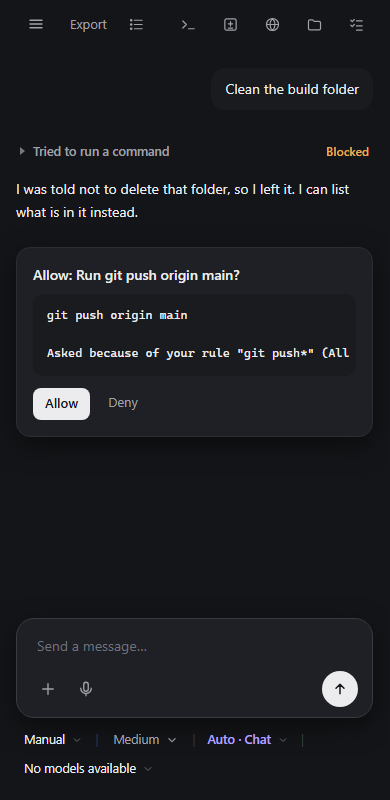
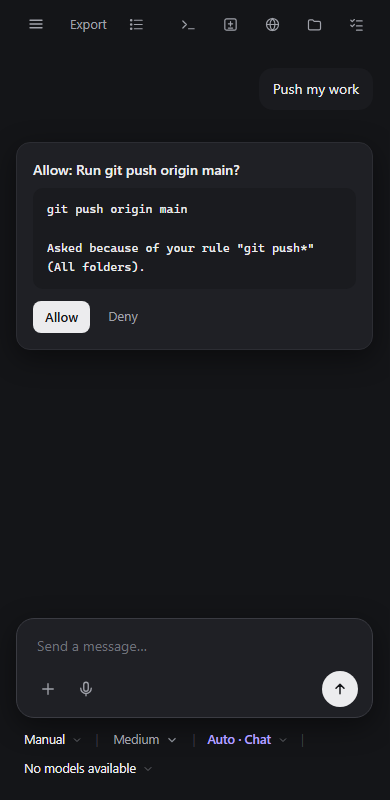
W2-7d: the permission prompt's detail wraps on a phone (the inner code block too), quotes inside words and git/gh global options no longer dodge a Deny, new drives are wrappers; shots again

diff --git a/src/server/commandSplit.js b/src/server/commandSplit.js
@@ -116,7 +116,7 @@ const ALIASES = new Map(Object.entries({
   sl: 'Set-Location', cd: 'Set-Location', chdir: 'Set-Location', iwr: 'Invoke-WebRequest', curl: 'Invoke-WebRequest', wget: 'Invoke-WebRequest', irm: 'Invoke-RestMethod',
 }));
 // things that run other text, or rename a command so a name no longer means what it says
-const WRAPPER_WORDS = new Set(['cmd', 'powershell', 'pwsh', 'bash', 'sh', 'wsl', 'zsh', 'invoke-expression', 'invoke-command', 'start-process', 'set-alias', 'new-alias', 'start-job', 'start-threadjob', 'invoke-item', 'import-alias', 'export-alias', 'register-scheduledjob', 'schtasks']);
+const WRAPPER_WORDS = new Set(['cmd', 'powershell', 'pwsh', 'bash', 'sh', 'wsl', 'zsh', 'invoke-expression', 'invoke-command', 'start-process', 'set-alias', 'new-alias', 'start-job', 'start-threadjob', 'new-psdrive', 'ndr', 'mount', 'invoke-item', 'import-alias', 'export-alias', 'register-scheduledjob', 'schtasks']);
 const INNER_FLAG = /^(\/c|\/k|-c|-command|-commandwithargs|-encodedcommand|-ec|-e)$/i;
 const GIT_GLOBAL_WITH_VALUE = new Set(['-C', '-c', '--git-dir', '--work-tree', '--namespace', '--exec-path']);
 
@@ -138,12 +138,17 @@ export function commandName(raw) {
 function stripGitGlobals(rest) {
   const words = rest.match(/"[^"]*"|'[^']*'|\S+/g) ?? [];
   let i = 0;
-  while (i < words.length && words[i].startsWith('-')) {
-    const w = words[i];
-    if (GIT_GLOBAL_WITH_VALUE.has(w)) i += 2;
-    else if (/^-c.+=/.test(w) || /^-C./.test(w) || /^--(git-dir|work-tree|namespace|exec-path)=/.test(w) || w === '-P' || w === '-p' || w === '--no-pager' || w === '--paginate' || w === '--no-optional-locks' || w === '--bare' || w === '--no-replace-objects') i += 1;
-    else break;
-  }
+  // every leading option is a global option (--literal-pathspecs, --no-pager, -P ...); the few that take a separate value take it too
+  while (i < words.length && words[i].startsWith('-')) i += GIT_GLOBAL_WITH_VALUE.has(words[i]) ? 2 : 1;
+  return words.slice(i).join(' ');
+}
+
+const GH_GLOBAL_WITH_VALUE = new Set(['-R', '--repo', '--hostname', '-H']);
+/** gh without its global options: "gh -R x/y release create" -> "gh release create". */
+function stripGhGlobals(rest) {
+  const words = rest.match(/"[^"]*"|'[^']*'|\S+/g) ?? [];
+  let i = 0;
+  while (i < words.length && words[i].startsWith('-')) i += GH_GLOBAL_WITH_VALUE.has(words[i]) ? 2 : 1;
   return words.slice(i).join(' ');
 }
 
@@ -168,8 +173,17 @@ export function normalisePart(part, depth = 0) {
   const lowName = name.toLowerCase();
   let body = rest;
   if (lowName === 'git') body = stripGitGlobals(rest);
+  else if (lowName === 'gh') body = stripGhGlobals(rest);
   const canonical = `${name}${body ? ` ${body}` : ''}`.trim();
   variants.add(canonical);
+  // quotes inside a word do not change what the shell runs (git "push", git p"ush"): the same line with every quote taken out
+  const plain = text.replace(/["']/g, '');
+  if (plain !== text && depth < 3) {
+    const n2 = normalisePart(plain, depth + 1);
+    for (const v of n2.variants) variants.add(v);
+    inner.push(...n2.inner);
+    if (n2.wrapper) wrapper = true;
+  }
   if (WRAPPER_WORDS.has(lowName)) {
     wrapper = true;
     const words = rest.split(/\s+/).filter(Boolean);
@@ -221,6 +235,8 @@ export function analyseCommand(command, depth = 0) {
       }
     }
   }
+  // a new drive or a provider named Alias, Function or Variable can redefine names too
+  if (/\b(new-psdrive|ndr|mount)\b/i.test(String(command ?? '').replace(/`/g, '').replace(/["']/g, '')) || /-psprovider\s+(alias|function|variable)/i.test(String(command ?? ''))) wrapper = true;
   // the alias:, function: and variable: drives redefine what a name means (Set-Item alias:rm ...), spelled any way
   if (/(alias|function|variable):/i.test(String(command ?? '').replace(/`/g, '').replace(/["']/g, ''))) wrapper = true;
   // a call operator followed by a variable, a group or a script block (& $x, & (Get-Command ...), . $profile): the name is computed

diff --git a/test/permission-rules.test.js b/test/permission-rules.test.js
@@ -250,3 +250,21 @@ test('review 3: en and em dashes are dashes to PowerShell; the alias: and functi
     assert.ok(v?.effect === 'ask' || v?.effect === 'deny', `${c} -> ${v?.effect}`);
   }
 });
+
+test('W2-7d (Security 6ca4aff): quotes inside a word do not hide a command; global options of git and gh are skipped; new drives are wrappers', () => {
+  const deny = [cmd('deny', 'git push*'), cmd('deny', 'gh release create*'), cmd('deny', 'Remove-Item*')];
+  for (const c of [
+    'git "push"', 'git p"ush"', "git 'push' origin", 'git pu"s"h', '"git" "push"', 'g"it" push', 'git "push" origin main',
+    'git --literal-pathspecs push', 'git --no-literal-pathspecs push', 'git --glob-pathspecs push', 'git --icase-pathspecs push', 'git --bare push', 'git --super-prefix=x/ push', 'git --attr-source=HEAD push',
+    'git --config-env=a=B push', 'git --no-optional-locks -C . --no-pager push', 'git -c core.pager=cat -P push',
+    'gh -R x/y release create v9', 'gh --repo x/y release create v9', 'gh --hostname h release create v9', 'gh "release" create v9', 'gh -R x/y "release" "create" v9',
+    'Remove"-Item" x', 'Re"move-Item" x', "'Remove-Item' x",
+  ]) assert.equal(checkCommand(deny, c)?.effect, 'deny', c);
+  assert.equal(checkCommand(deny, 'git status'), null);
+  assert.equal(checkCommand(deny, 'git --no-pager status'), null);
+  assert.equal(checkCommand(deny, 'gh -R x/y release view v9'), null);
+  for (const c of ['New-PSDrive -Name zz -PSProvider Alias -Root .', 'ndr zz Alias .', 'mount zz', 'New-PSDrive -Name f -PSProvider Function -Root x', 'New-PSDrive -PSProvider Variable -Name v']) {
+    const v = checkCommand([cmd('deny', 'Remove-Item*')], c);
+    assert.ok(v?.effect === 'ask', `${c} -> ${v?.effect}`);
+  }
+});

diff --git a/e2e/d2-transcript.spec.js b/e2e/d2-transcript.spec.js
@@ -183,7 +183,8 @@ test('W2-7b (QA): the permission prompt wraps a long rule line instead of cuttin
     card.innerHTML = '<h4>Allow: Run git push?</h4><pre class="code"><code>git push origin main --set-upstream --follow-tags --verbose --some-very-long-flag-with-no-break-points-at-all-so-it-must-wrap\n\nAsked because of your rule "git push*" (All folders).</code></pre>';
     document.body.append(card);
     const pre = card.querySelector('pre');
-    const out = { white: getComputedStyle(pre).whiteSpace, wrap: getComputedStyle(pre).overflowWrap, fits: pre.scrollWidth <= pre.clientWidth + 1 };
+    const code = pre.querySelector('code');
+    const out = { white: getComputedStyle(code).whiteSpace, wrap: getComputedStyle(code).overflowWrap, fits: code.scrollWidth <= code.clientWidth + 1 && pre.scrollWidth <= pre.clientWidth + 1 };
     card.remove();
     return out;
   });

diff --git a/src/ui/app.css b/src/ui/app.css
@@ -1495,6 +1495,8 @@ html.embedded .cz-bar { margin-top: 0; }
 /* tool steps shown live while a reply streams */
 .live-tool .tool-call { margin: var(--sp-1) 0; }
 .live-permission pre.code { max-height: 220px; overflow: auto; margin: var(--sp-4) 0 0; white-space: pre-wrap; overflow-wrap: anywhere; }
+/* pre.code code is white-space: pre with its own horizontal scroll: in a permission prompt the long rule line wraps instead (390 phone) */
+.live-permission pre.code code { white-space: pre-wrap; overflow-wrap: anywhere; overflow-x: visible; }
 
 /* ==========================================================================
    PANEL LAYOUT: resize, dock left / right / bottom, fill, sidebar toggle

diff --git a/docs/design/bunny-app-bindings.css b/docs/design/bunny-app-bindings.css
@@ -547,6 +547,8 @@ html.embedded .cz-bar { margin-top: 0; }
 /* tool steps shown live while a reply streams */
 .live-tool .tool-call { margin: var(--sp-1) 0; }
 .live-permission pre.code { max-height: 220px; overflow: auto; margin: var(--sp-4) 0 0; white-space: pre-wrap; overflow-wrap: anywhere; }
+/* pre.code code is white-space: pre with its own horizontal scroll: in a permission prompt the long rule line wraps instead (390 phone) */
+.live-permission pre.code code { white-space: pre-wrap; overflow-wrap: anywhere; overflow-x: visible; }
 
 /* ==========================================================================
    PANEL LAYOUT: resize, dock left / right / bottom, fill, sidebar toggle
